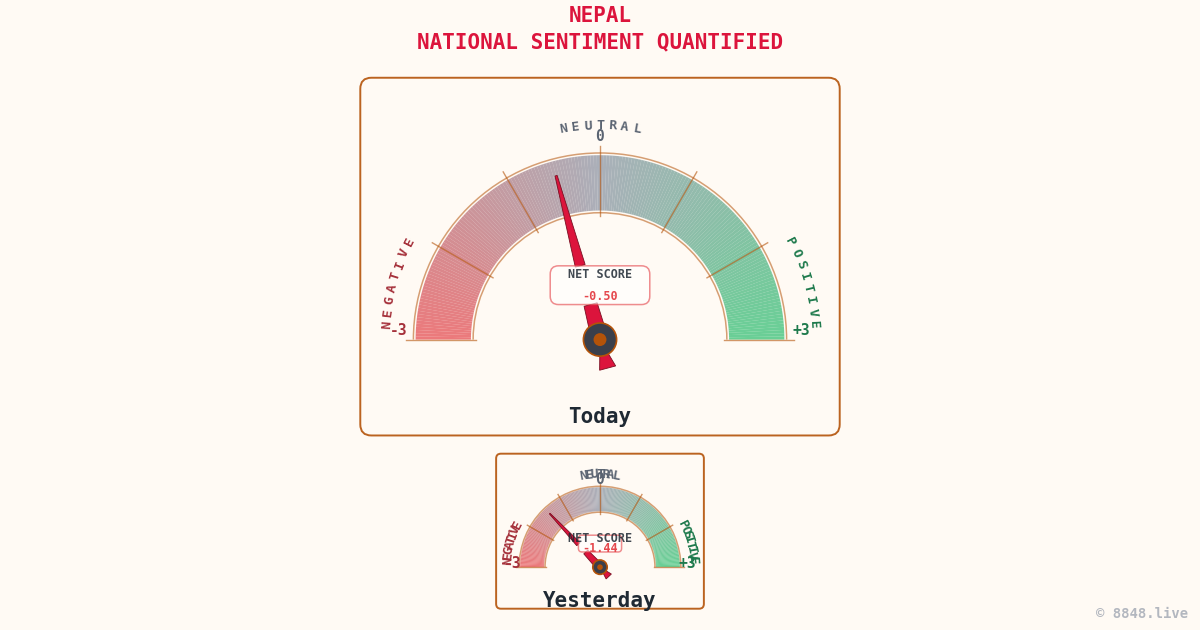
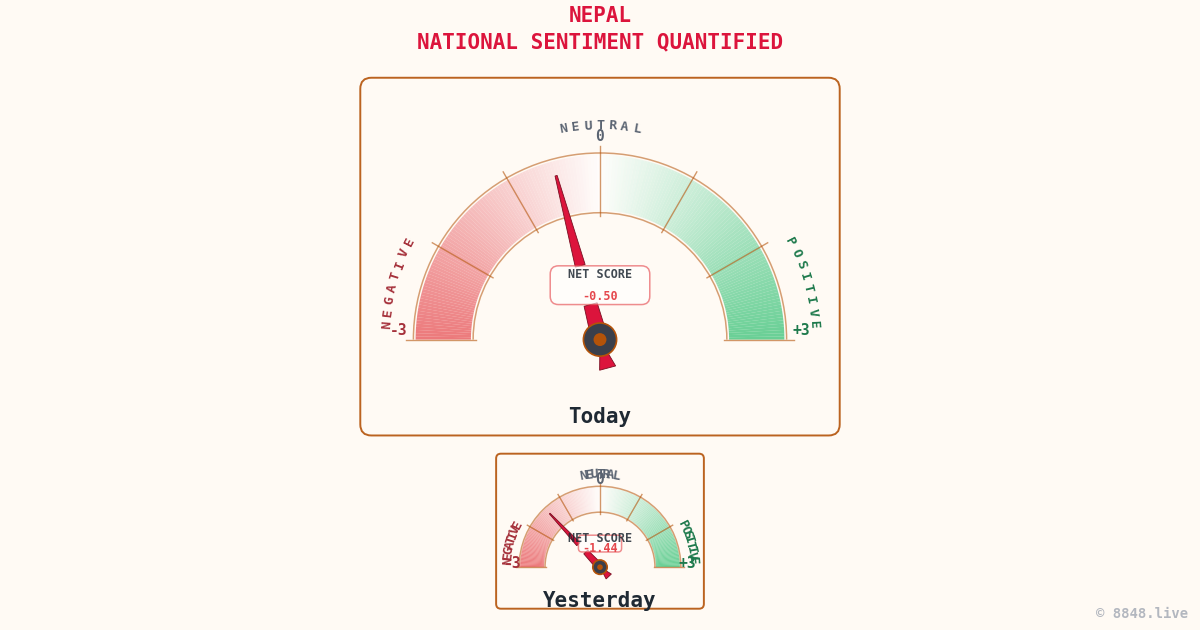
Fix layout: word cloud + sentiment gauge 50/50 row, restore missing Aug 31 gauge images, left-align concise nav tabs, Visual Nepal hero de-duplicated with title-above-map cards

Changed region(s): [[0.37, 0.2413, 0.6475, 0.4524], [0.4317, 0.754, 0.555, 0.8444]]

diff --git a/assets/css/style.css b/assets/css/style.css
@@ -117,7 +117,7 @@ a { text-decoration: none; }
 .topnav {
   display: flex;
   align-items: center;
-  justify-content: space-between;
+  gap: 22px;
   padding: 18px 0;
 }
 
@@ -158,7 +158,7 @@ a { text-decoration: none; }
 html:not([data-lang="np"]) [data-lang-np] { display: none; }
 html[data-lang="np"] [data-lang-en] { display: none; }
 
-.nav-right { display: flex; align-items: center; gap: 6px; }
+.nav-right { display: flex; align-items: center; gap: 6px; margin-left: auto; flex: 0 0 auto; }
 
 .lang-toggle {
   height: 36px;
@@ -177,18 +177,35 @@ html[data-lang="np"] [data-lang-en] { display: none; }
 
 .lang-toggle:hover { border-color: var(--red); color: var(--red); }
 
-.nav-links { display: flex; gap: 4px; }
+/* Concise, single-row "tab" style nav, anchored to the left next to the
+   brand -- horizontally scrollable (no wrap) so it never breaks the header
+   row on narrow screens instead of stacking or overflowing awkwardly. */
+.nav-links {
+  display: flex;
+  align-items: center;
+  gap: 2px;
+  min-width: 0;
+  overflow-x: auto;
+  scrollbar-width: none;
+}
+.nav-links::-webkit-scrollbar { display: none; }
 
 .nav-links a {
-  padding: 6px 14px;
+  padding: 6px 12px;
   border-radius: var(--radius-sm);
-  font-size: 0.88rem;
-  font-weight: 500;
+  font-size: 0.82rem;
+  font-weight: 600;
   color: var(--text-3);
+  white-space: nowrap;
   transition: all 0.15s ease;
 }
 
 .nav-links a:hover { color: var(--red); background: var(--red-light); }
+
+@media (max-width: 700px) {
+  .topnav { gap: 12px; }
+  .nav-links a { padding: 6px 9px; font-size: 0.78rem; }
+}
 
 .theme-toggle {
   width: 36px;
@@ -223,31 +240,40 @@ html[data-lang="np"] [data-lang-en] { display: none; }
 
 main.wrap { padding: 32px 24px 80px; }
 
-/* Hero: split 60/40 layout */
-.hero-grid {
-  display: grid;
-  grid-template-columns: 1fr 1.15fr;
-  gap: 32px;
-  align-items: center;
-  padding: 44px 0 8px;
+/* Nepal Today: centered title above two equal-width boxes (word cloud + sentiment).
+   .page-hero-head/.page-hero-title share the same centered big-headline style
+   for other page heroes (e.g. Visual Nepal's "Nepal in Visual"). */
+.nepal-today-head, .page-hero-head {
+  text-align: center;
+  padding: 44px 0 20px;
 }
 
-.hero-heading {
+.nepal-today-title, .page-hero-title {
   margin: 0 0 14px;
   color: var(--text);
   font-weight: 800;
-  font-size: 2.1rem;
-  line-height: 1.18;
+  font-size: 2.4rem;
+  line-height: 1.15;
   letter-spacing: -0.02em;
 }
 
-.hero-subheading {
-  margin: 0 0 20px;
+.page-hero-subtitle {
+  margin: 0 auto;
+  max-width: 56ch;
   color: var(--text-3);
-  font-size: 1.05rem;
-  line-height: 1.55;
-  max-width: 46ch;
+  font-size: 1.02rem;
+  line-height: 1.6;
 }
+
+.nepal-today-grid {
+  display: grid;
+  grid-template-columns: 1fr 1fr;
+  gap: 24px;
+  align-items: stretch;
+  padding-bottom: 8px;
+}
+
+.wordcloud-col { min-width: 0; display: flex; flex-direction: column; }
 
 .hero-badge {
   display: inline-flex;
@@ -272,8 +298,6 @@ main.wrap { padding: 32px 24px 80px; }
   animation: blink 1.8s ease-in-out infinite;
 }
 
-.hero-right { min-width: 0; }
-
 .pulse-card {
   background: var(--bg-card);
   border: 1px solid var(--border);
@@ -284,29 +308,32 @@ main.wrap { padding: 32px 24px 80px; }
   animation: fadeInUp 0.6s ease forwards;
 }
 
-.pulse-eyebrow {
-  display: inline-block;
+/* Shared eyebrow label for the word cloud + sentiment boxes -- bigger and
+   centered, unlike the old small left-aligned tag it replaced. */
+.box-eyebrow {
+  display: block;
+  text-align: center;
   color: var(--red);
   font-weight: 800;
-  font-size: 0.7rem;
-  text-transform: uppercase;
-  letter-spacing: 0.08em;
-  margin-bottom: 8px;
+  font-size: 1.1rem;
+  letter-spacing: 0.01em;
+  margin: 2px 0 10px;
 }
 
 .pulse-card canvas { display: block; width: 100%; }
 
-.pulse-caption {
-  margin: 8px 0 0;
+.box-copyright {
+  margin: 10px 0 0;
   text-align: center;
   color: var(--text-3);
-  font-size: 0.78rem;
-  font-weight: 500;
+  font-size: 0.74rem;
+  font-weight: 600;
 }
 
 @media (max-width: 780px) {
-  .hero-grid { grid-template-columns: 1fr; padding-top: 28px; }
-  .hero-heading { font-size: 1.6rem; }
+  .nepal-today-grid { grid-template-columns: 1fr; padding-top: 8px; }
+  .nepal-today-head { padding-top: 28px; }
+  .nepal-today-title { font-size: 1.7rem; }
 }
 
 /* Cards */
@@ -422,9 +449,6 @@ main.wrap { padding: 32px 24px 80px; }
 }
 .archive-visits svg { width: 11px; height: 11px; flex-shrink: 0; opacity: 0.75; }
 
-.archive-link-row { text-align: center; margin-top: 30px; }
-.archive-link { color: var(--red); font-weight: 700; font-size: 0.92rem; }
-.archive-link:hover { color: var(--red-dark); }
 
 .archive-header { text-align: center; margin: 4px 0 28px; }
 .archive-sub { color: var(--text-3); font-size: 0.92rem; margin: 6px 0 0; }
@@ -435,6 +459,64 @@ main.wrap { padding: 32px 24px 80px; }
 }
 
 .post-card, .page-card { animation-delay: 0s; }
+
+.page-content-lead { color: var(--text-2); font-size: 1.02rem; line-height: 1.65; margin: 0 0 20px; }
+
+/* Visual Nepal: two equal-width map cards, one row */
+.visual-nepal-grid {
+  display: grid;
+  grid-template-columns: 1fr 1fr;
+  gap: 24px;
+  margin: 4px 0 20px;
+}
+.visual-card {
+  display: block;
+  background: var(--bg-card);
+  border: 1px solid var(--border);
+  border-radius: var(--radius-lg);
+  box-shadow: var(--shadow-sm);
+  text-decoration: none;
+  color: inherit;
+  overflow: hidden;
+  transition: box-shadow 0.2s ease, transform 0.2s ease, border-color 0.2s ease;
+}
+.visual-card:hover {
+  box-shadow: var(--shadow-md);
+  transform: translateY(-2px);
+  border-color: rgba(220,20,60,0.25);
+}
+.visual-card-preview {
+  position: relative;
+  height: 260px;
+  overflow: hidden;
+  background: #0a0e0f;
+}
+.visual-card-preview iframe {
+  position: absolute;
+  top: 0;
+  left: 0;
+  border: 0;
+  pointer-events: none;
+  transform-origin: top left;
+}
+.visual-card-body { padding: 18px 20px 12px; }
+.visual-card-title { margin: 0; font-size: 1.08rem; font-weight: 800; color: var(--text); line-height: 1.3; }
+.visual-card-footer { padding: 14px 20px 22px; }
+.visual-card-desc { margin: 0 0 12px; font-size: 0.86rem; line-height: 1.55; color: var(--text-2); }
+.visual-card-cta { color: var(--red); font-weight: 700; font-size: 0.85rem; }
+.visual-nepal-note {
+  color: var(--text-3);
+  font-size: 0.8rem;
+  line-height: 1.6;
+  background: var(--bg-soft);
+  border: 1px solid var(--border);
+  border-radius: var(--radius-sm);
+  padding: 12px 14px;
+}
+@media (max-width: 780px) {
+  .visual-nepal-grid { grid-template-columns: 1fr; }
+  .visual-card-preview { height: 220px; }
+}
 
 .post-eyebrow {
   display: inline-flex;
@@ -686,37 +768,32 @@ main.wrap { padding: 32px 24px 80px; }
 
 .back-link:hover { color: var(--red-dark); }
 
-/* --- National Sentiment Quantified (homepage, next to Latest digest) --- */
-.latest-digest-row { display: flex; align-items: stretch; gap: 24px; }
-.latest-digest-col { flex: 1 1 50%; min-width: 0; }
+/* --- National Sentiment Quantified (homepage, next to word cloud, today only) --- */
+.sentiment-outer-col { min-width: 0; display: flex; flex-direction: column; }
 .sentiment-col {
-  flex: 1 1 50%; min-width: 0;
-  background: var(--bg-card); border: 1px solid var(--border); border-radius: var(--radius-lg);
+  min-width: 0;
+  background: var(--bg-card); border-radius: var(--radius-lg);
   box-shadow: var(--shadow-sm); display: flex; flex-direction: column;
   padding: 16px 16px 14px; overflow: hidden;
+  /* Grow to fill the grid-stretched column height, so this box matches the
+     word cloud box's (canvas-driven) height exactly, rather than sizing to
+     its own small intrinsic content and leaving blank space below. */
+  flex: 1 1 auto;
+  min-height: 0;
 }
-.sentiment-col-label {
-  font-size: 0.8rem; font-weight: 700; letter-spacing: 0.07em; text-transform: uppercase;
-  color: var(--text-3); margin: 0 0 6px; text-align: center; flex: 0 0 auto; line-height: 1.35;
-}
-.sentiment-col-label .line-1 { display: block; color: var(--red); font-size: 0.72rem; }
-.sentiment-col-label .line-2 { display: block; }
 .gauge-cell { display: flex; align-items: center; justify-content: center; min-height: 0; overflow: hidden; }
-.gauge-cell.today { flex: 2.4 1 0; }
-.gauge-cell.yesterday { flex: 1.5 1 0; }
+.gauge-cell.today { flex: 1 1 auto; }
 .gauge-cell img { max-width: 100%; max-height: 100%; width: 100%; height: 100%; object-fit: contain; }
-.gauge-divider { flex: 0 0 auto; height: 2px; background: var(--red); border: none; margin: 0 0 2px; opacity: 0.85; }
-.sentiment-share-row { flex: 0 0 auto; justify-content: center; margin-top: 8px; }
-.featured-card { height: 100%; box-sizing: border-box; display: flex; flex-direction: column; justify-content: center; }
+/* The gauge PNG is generated in both a light- and dark-theme color variant
+   (transparent background either way); only one shows at a time. */
+.gauge-cell .gauge-dark { display: none; }
+[data-theme="dark"] .gauge-cell .gauge-light { display: none; }
+[data-theme="dark"] .gauge-cell .gauge-dark { display: block; }
+.sentiment-share-row { margin-top: 8px; }
+/* Full-width "Latest digest" card, below the Nepal Today grid */
+.featured-card-full { width: 100%; box-sizing: border-box; }
 @media (max-width: 780px) {
-  .latest-digest-row { flex-direction: column; }
-  .sentiment-col { flex: 0 0 auto; }
-  /* flex-basis must be reset to auto here, otherwise the base rule's
-     "flex: 2.4 1 0" / "flex: 1.5 1 0" (basis 0) wins over height and the
-     gauges collapse to 0px tall on mobile, even though the label and
-     share-row above/below them render fine. */
-  .gauge-cell.today { flex: 0 0 auto; height: 300px; }
-  .gauge-cell.yesterday { flex: 0 0 auto; height: 110px; }
+  .gauge-cell.today { height: 300px; }
 }
 
 

diff --git a/_layouts/default.html b/_layouts/default.html
@@ -48,13 +48,13 @@
         <span class="brand-logo-badge"><img src="{{ '/assets/img/logo.png' | relative_url }}" alt="8848.live home"></span>
         <span class="brand">{{ site.title }}</span>
       </a>
+      <div class="nav-links">
+        <a href="{{ '/' | relative_url }}"><span data-lang-en>Home</span><span data-lang-np>गृहपृष्ठ</span></a>
+        <a href="{{ '/archive/' | relative_url }}"><span data-lang-en>News Archive</span><span data-lang-np>समाचार अभिलेख</span></a>
+        <a href="{{ '/visual-nepal/' | relative_url }}"><span data-lang-en>Visual Nepal</span><span data-lang-np>दृश्य नेपाल</span></a>
+        <a href="{{ '/contact/' | relative_url }}"><span data-lang-en>Contact</span><span data-lang-np>सम्पर्क</span></a>
+      </div>
       <div class="nav-right">
-        <div class="nav-links">
-          <a href="{{ '/' | relative_url }}"><span data-lang-en>Home</span><span data-lang-np>गृहपृष्ठ</span></a>
-          <a href="{{ '/archive/' | relative_url }}"><span data-lang-en>News Archive</span><span data-lang-np>समाचार अभिलेख</span></a>
-          <a href="{{ '/visual-nepal/' | relative_url }}"><span data-lang-en>Visual Nepal</span><span data-lang-np>दृश्य नेपाल</span></a>
-          <a href="{{ '/contact/' | relative_url }}"><span data-lang-en>Contact</span><span data-lang-np>सम्पर्क</span></a>
-        </div>
         <button id="lang-toggle" class="lang-toggle" type="button" aria-label="Toggle Nepali translation">
           <span data-lang-en>नेपाली</span>
           <span data-lang-np>English</span>

diff --git a/visual-nepal.md b/visual-nepal.md
@@ -1,5 +1,5 @@
 ---
-layout: page
+layout: default
 title: Visual Nepal
 permalink: /visual-nepal/
 ---
@@ -9,23 +9,24 @@ permalink: /visual-nepal/
     <span data-lang-en>Nepal in Visual</span>
     <span data-lang-np>दृश्यमा नेपाल</span>
   </h1>
+  <p class="page-hero-subtitle">
+    <span data-lang-en>Data on the map of Nepal.</span>
+    <span data-lang-np>नेपालको नक्सामा तथ्याङ्क।</span>
+  </p>
 </div>
-
-<p class="page-content-lead">
-  <span data-lang-en>Data on the map of Nepal.</span>
-  <span data-lang-np>नेपालको नक्सामा तथ्याङ्क।</span>
-</p>
 
 <div class="visual-nepal-grid">
   <a class="visual-card" href="{{ '/visual-nepal/aug2026-flash-flood.html' | relative_url }}" target="_blank" rel="noopener">
-    <div class="visual-card-preview" data-native-w="1440" data-native-h="900" data-crop-x="380">
-      <iframe src="{{ '/visual-nepal/aug2026-flash-flood.html' | relative_url }}" loading="lazy" tabindex="-1" title="Rasuwa–Bhotekoshi flash flood satellite map preview"></iframe>
-    </div>
     <div class="visual-card-body">
       <h2 class="visual-card-title">
         <span data-lang-en>Rasuwa–Bhotekoshi Flash Flood<br>Aug 2026</span>
         <span data-lang-np>रसुवा–भोटेकोशी पहिरो बाढी<br>अगस्ट २०२६</span>
       </h2>
+    </div>
+    <div class="visual-card-preview" data-native-w="1440" data-native-h="900" data-crop-x="380">
+      <iframe src="{{ '/visual-nepal/aug2026-flash-flood.html' | relative_url }}" loading="lazy" tabindex="-1" title="Rasuwa–Bhotekoshi flash flood satellite map preview"></iframe>
+    </div>
+    <div class="visual-card-footer">
       <p class="visual-card-desc">
         <span data-lang-en>The flood's flow path, modelled inundation extent, and infrastructure damage — mapped on satellite imagery and extracted from various sources.</span>
         <span data-lang-np>बाढीको बहाव मार्ग, अनुमानित डुबान क्षेत्र, र पूर्वाधार क्षति — स्याटेलाइट तस्बिरमा नक्सांकन गरिएको र विभिन्न स्रोतबाट संकलन गरिएको।</span>
@@ -38,14 +39,16 @@ permalink: /visual-nepal/
   </a>
 
   <a class="visual-card" href="{{ '/visual-nepal/waters-of-nepal.html' | relative_url }}" target="_blank" rel="noopener">
-    <div class="visual-card-preview" data-native-w="1440" data-native-h="900" data-crop-x="0">
-      <iframe src="{{ '/visual-nepal/waters-of-nepal.html' | relative_url }}" loading="lazy" tabindex="-1" title="Waters of Nepal satellite map preview"></iframe>
-    </div>
     <div class="visual-card-body">
       <h2 class="visual-card-title">
         <span data-lang-en>The Waters of Nepal</span>
         <span data-lang-np>नेपालका जलस्रोतहरू</span>
       </h2>
+    </div>
+    <div class="visual-card-preview" data-native-w="1440" data-native-h="900" data-crop-x="0">
+      <iframe src="{{ '/visual-nepal/waters-of-nepal.html' | relative_url }}" loading="lazy" tabindex="-1" title="Waters of Nepal satellite map preview"></iframe>
+    </div>
+    <div class="visual-card-footer">
       <p class="visual-card-desc">
         <span data-lang-en>A live satellite basemap of Nepal's glaciers, lakes, and rivers and more.</span>
         <span data-lang-np>नेपालका हिमनदी, ताल, नदी र थप जलस्रोतहरूको प्रत्यक्ष स्याटेलाइट आधार नक्सा।</span>
